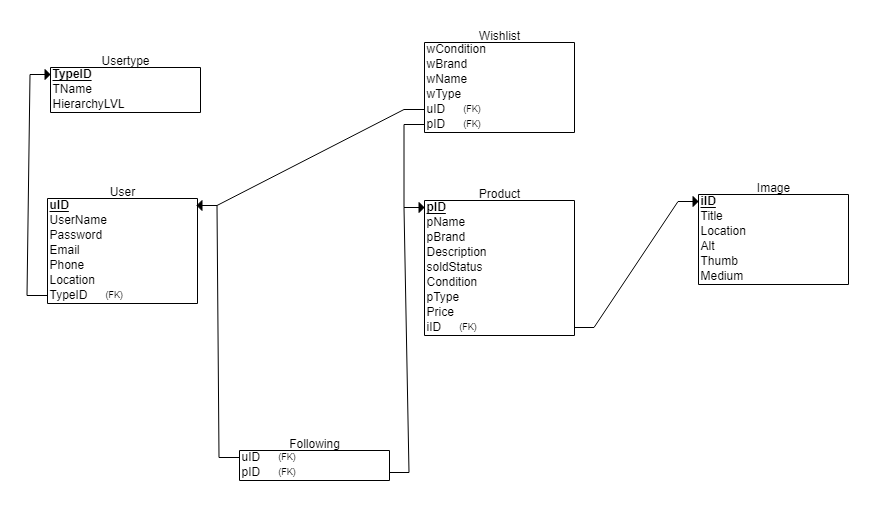
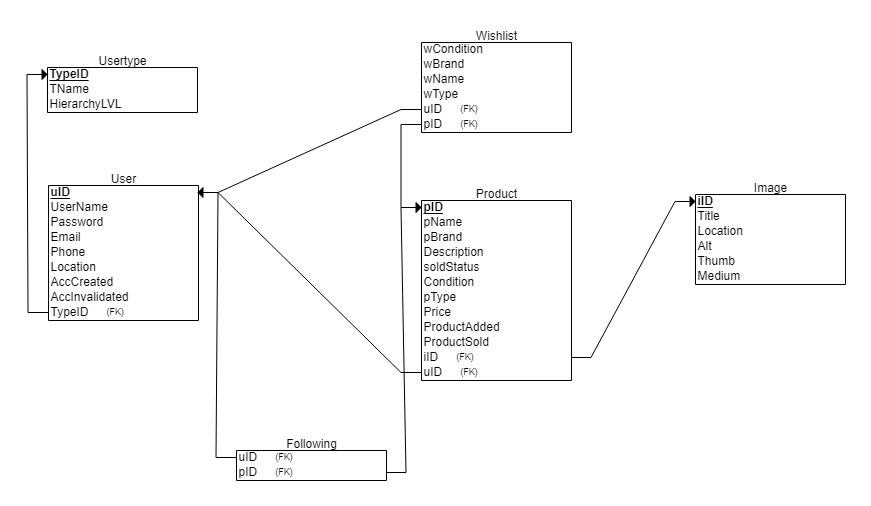
DB Query update 1

diff --git a/Utils/DB_Query.js b/Utils/DB_Query.js
@@ -1,5 +1,83 @@
 'use strict';
+const selectUserInfo = (connection, res) => {
+    // Selects your user information (When you login)
+    connection.query(
+        'SELECT UserName,Email,Phone,Location FROM User WHERE userID = ?;',
+        (err, results, fields) => {
+            // console.log(results); // results contains rows returned by server
+            // console.log(fields); // fields contains extra meta data about results, if available
+            if (err == null) {
+                res.send(results);
+            } else {
+                console.log(err);
+            }
+        },
+    );
+};
+const insertUser = (data, connection, res) => {
+    // For adding new users (Register)
+    connection.execute(
+        'INSERT INTO User (UserName, Password, Email, Phone, Location, uID,typeID) VALUES (?, ?, ?, ?, ?, ?, ?);',
+        data,
+        (err, results, fields) => {
+            // console.log(results); // results contains rows returned by server
+            // console.log(fields); // fields contains extra meta data about results, if available
+            if (err == null) {
+                res.send(results);
+            } else {
+                console.log(err);
+            }
+        },
+    );
+};
 
+const updateUserInfo = (data, connection, res) => {
+    // Updating the account user information
+    connection.execute(
+        'UPDATE User SET Email = ?, Phone = ?, Location = ? WHERE userID = ?;',
+        data,
+        (err, results, fields) => {
+            // console.log(results); // results contains rows returned by server
+            // console.log(fields); // fields contains extra meta data about results, if available
+            if (err == null) {
+                res.send(results);
+            } else {
+                console.log(err);
+            }
+        },
+    );
+};
+const changePassword = (data, connection, res) => {
+    // Changing the password, this is done separately from changing the other user information because additional checks are needed
+    connection.execute(
+        'UPDATE User SET Password = ? WHERE userID = ?;',
+        data,
+        (err, results, fields) => {
+            // console.log(results); // results contains rows returned by server
+            // console.log(fields); // fields contains extra meta data about results, if available
+            if (err == null) {
+                res.send(results);
+            } else {
+                console.log(err);
+            }
+        },
+    );
+};
+const oldPassword = (connection,res)=>{
+    // This is used for getting the old password, so we can do a check when user is changing the password
+    connection.query(
+        'SELECT Password FROM User WHERE userID = ?;',
+        (err, results, fields) => {
+            // console.log(results); // results contains rows returned by server
+            // console.log(fields); // fields contains extra meta data about results, if available
+            if (err == null) {
+                res.send(results);
+            } else {
+                console.log(err);
+            }
+        },
+    );
+}
 
 const selectImages = (connection, res) => {
     // selects all images
@@ -34,27 +112,10 @@ const insertImage = (data, connection, res) => {
     );
 };
 
-const updateImage = (data, connection, res) => {
-    // simple query
-    connection.execute(
-        'UPDATE Image SET Title = ?, title = ?, details = ? WHERE iID = ? AND userID = ?;',
-        data,
-        (err, results, fields) => {
-            // console.log(results); // results contains rows returned by server
-            // console.log(fields); // fields contains extra meta data about results, if available
-            if (err == null) {
-                res.send(results);
-            } else {
-                console.log(err);
-            }
-        },
-    );
-};
-
 const delImage = (data, connection, res) => {
     // simple query
     connection.execute(
-        'DELETE FROM Image join Where iID = ? AND Product.userID = ?;', // can delete only current user's images
+        'DELETE FROM Image where iID = ?;',
         data,
         (err, results, fields) => {
             console.log(results); // results contains rows returned by server
